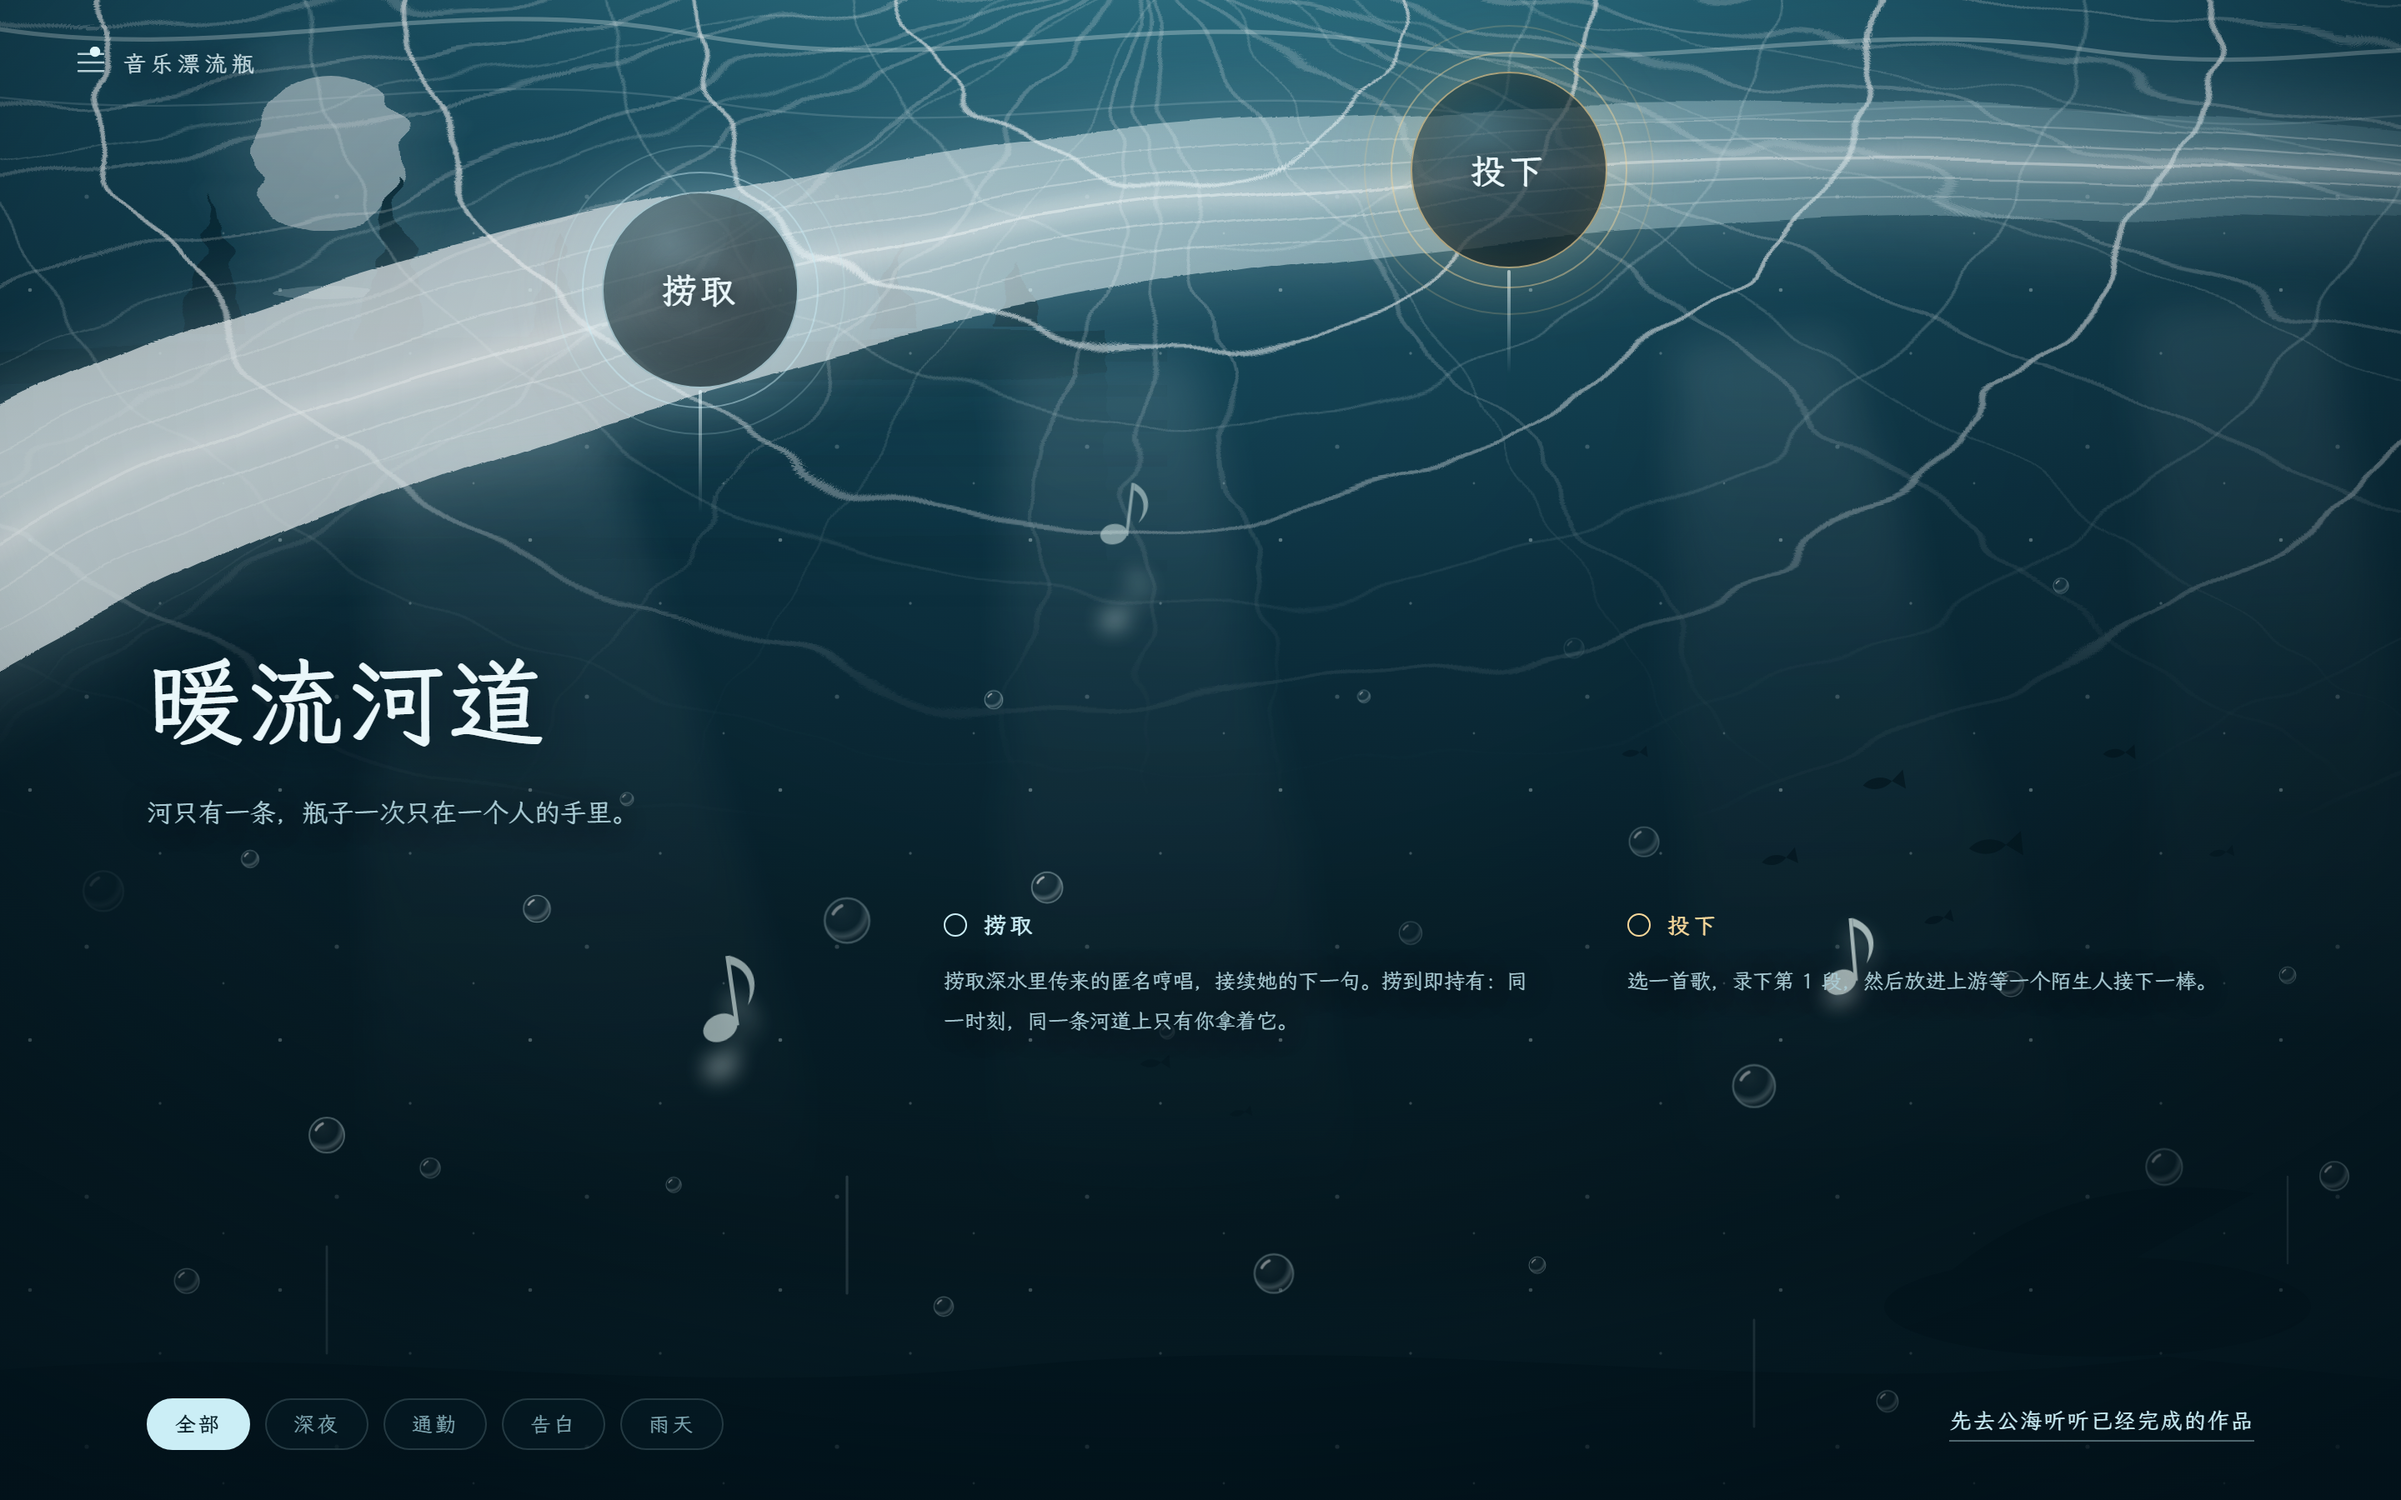
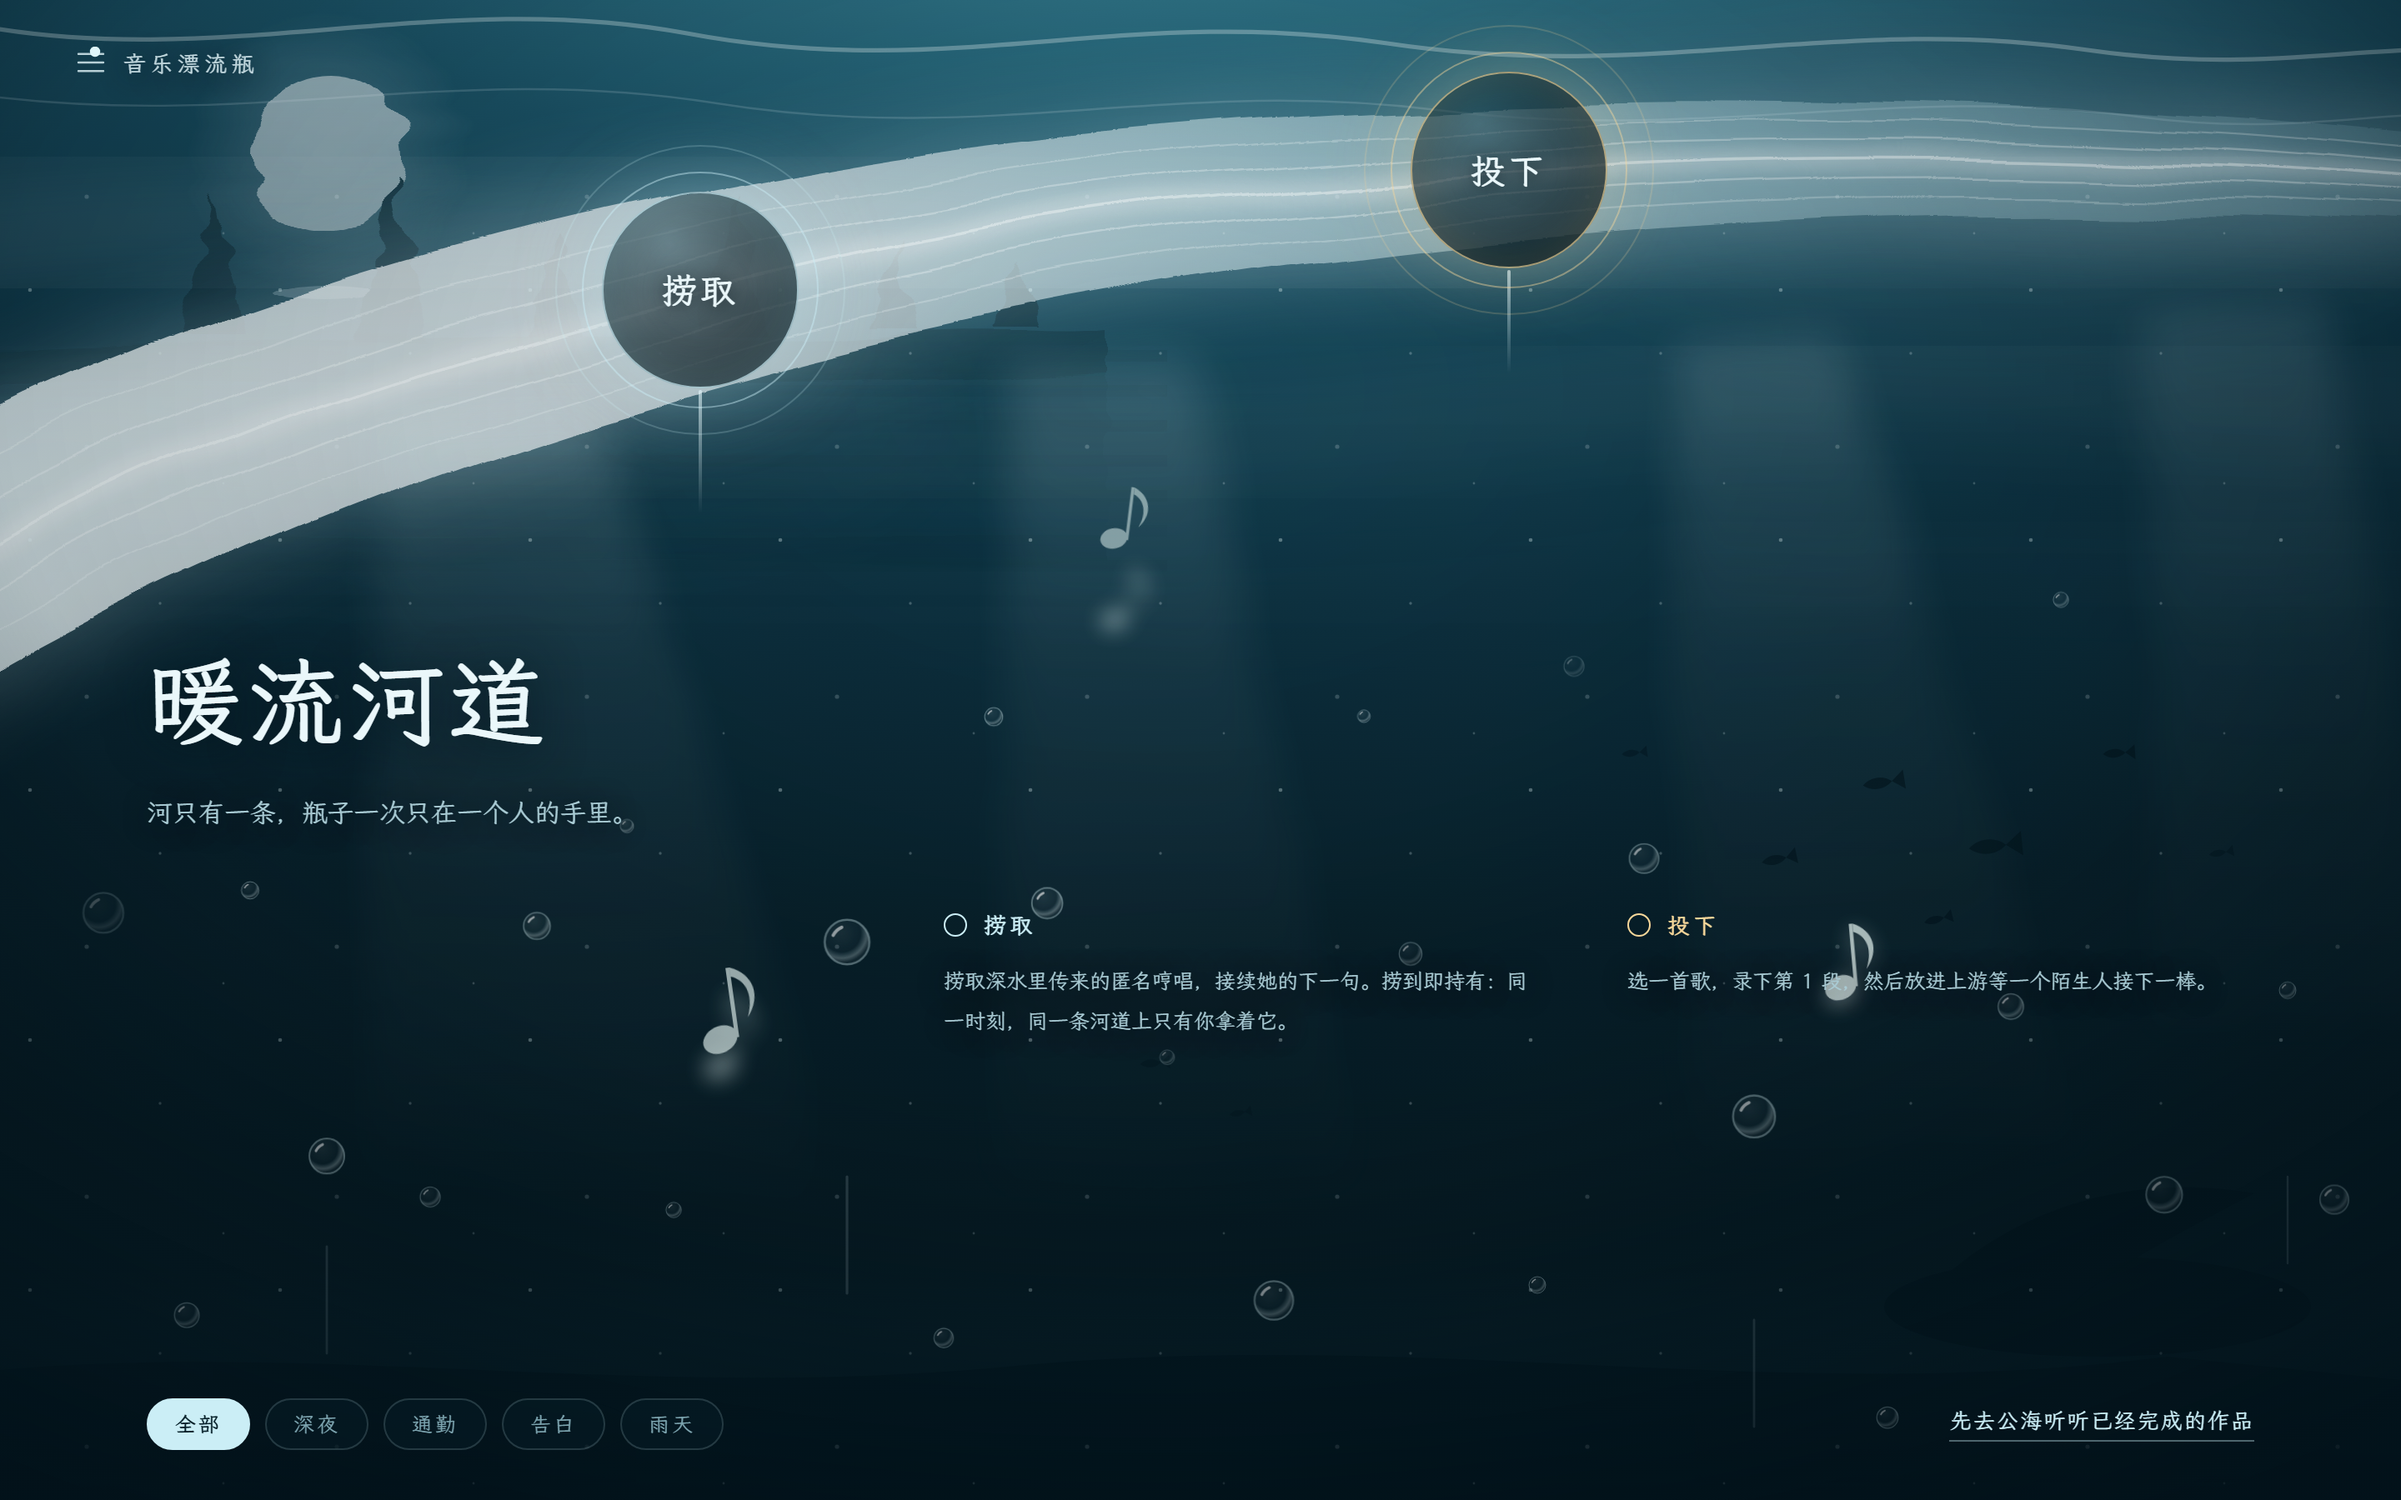
docs(design-explore): 三个候选的更新内容落盘（F4 只留文字描述 / E3 按钮错落到左侧 / g3 已拆网）
上一次提交只包含 ADR 与删除，这三份的**内容改动**（以及重渲染的 png）当时还是未暂存状态，这里补上，避免出现「文档说改了、文件其实没改」的假账。

diff --git a/docs/ui-review/design-explore/g3-underwater.html b/docs/ui-review/design-explore/g3-underwater.html
@@ -226,57 +226,17 @@
         <rect x="-60" y="206" width="760" height="200" fill="url(#pSlice)" opacity=".42" />
       </g>
 
-      <!-- ══ 头顶水面：极坐标折光网（越往下越被压扁 = 正上方在天顶） ══ -->
+      <!-- ══ 头顶水面：不是网格，而是几片被水揉过的光斑（用户："不要像蜘蛛网"） ══ -->
+      <filter id="fSoft"><feGaussianBlur stdDeviation="16" /></filter>
       <g mask="url(#mSurf)">
-        <g class="mesh-a" filter="url(#fCaust)" fill="none" stroke="#eafcfe" stroke-linecap="round">
-          <ellipse cx="700" cy="-30" rx="150" ry="138" stroke-width="2.2" opacity=".42" />
-          <ellipse cx="700" cy="-30" rx="280" ry="238" stroke-width="2.6" opacity=".46" />
-          <ellipse cx="700" cy="-30" rx="440" ry="343" stroke-width="3" opacity=".5" />
-          <ellipse cx="700" cy="-30" rx="640" ry="448" stroke-width="3.2" opacity=".5" />
-          <ellipse cx="700" cy="-30" rx="880" ry="546" stroke-width="3.4" opacity=".46" />
-          <ellipse cx="700" cy="-30" rx="1160" ry="638" stroke-width="3.4" opacity=".4" />
-          <ellipse cx="700" cy="-30" rx="1480" ry="710" stroke-width="3.2" opacity=".32" />
-          <ellipse cx="700" cy="-30" rx="1840" ry="773" stroke-width="3" opacity=".24" />
-          <ellipse cx="700" cy="-30" rx="2260" ry="814" stroke-width="2.8" opacity=".18" />
-          <g stroke-width="2.4" opacity=".34">
-            <line x1="700" y1="-30" x2="3100" y2="-30" />
-            <line x1="700" y1="-30" x2="-1700" y2="-30" />
-            <line x1="700" y1="-30" x2="3056" y2="116" />
-            <line x1="700" y1="-30" x2="-1656" y2="116" />
-            <line x1="700" y1="-30" x2="2955" y2="257" />
-            <line x1="700" y1="-30" x2="-1555" y2="257" />
-            <line x1="700" y1="-30" x2="2760" y2="389" />
-            <line x1="700" y1="-30" x2="-1360" y2="389" />
-            <line x1="700" y1="-30" x2="2485" y2="506" />
-            <line x1="700" y1="-30" x2="-1085" y2="506" />
-            <line x1="700" y1="-30" x2="2141" y2="604" />
-            <line x1="700" y1="-30" x2="-741" y2="604" />
-            <line x1="700" y1="-30" x2="1740" y2="680" />
-            <line x1="700" y1="-30" x2="-340" y2="680" />
-            <line x1="700" y1="-30" x2="1295" y2="733" />
-            <line x1="700" y1="-30" x2="105" y2="733" />
-            <line x1="700" y1="-30" x2="826" y2="762" />
-            <line x1="700" y1="-30" x2="574" y2="762" />
-            <line x1="700" y1="-30" x2="700" y2="810" />
-          </g>
-        </g>
-        <g class="mesh-b" filter="url(#fCaust2)" fill="none" stroke="#f2feff" stroke-linecap="round" opacity=".5">
-          <ellipse cx="700" cy="-30" rx="212" ry="186" stroke-width="1.4" />
-          <ellipse cx="700" cy="-30" rx="356" ry="290" stroke-width="1.6" />
-          <ellipse cx="700" cy="-30" rx="536" ry="396" stroke-width="1.8" />
-          <ellipse cx="700" cy="-30" rx="756" ry="500" stroke-width="1.8" />
-          <ellipse cx="700" cy="-30" rx="1016" ry="594" stroke-width="1.8" />
-          <ellipse cx="700" cy="-30" rx="1316" ry="676" stroke-width="1.6" />
-          <ellipse cx="700" cy="-30" rx="1656" ry="744" stroke-width="1.4" />
-          <ellipse cx="700" cy="-30" rx="2040" ry="794" stroke-width="1.2" />
-          <g stroke-width="1.3" opacity=".8">
-            <line x1="700" y1="-30" x2="2900" y2="60" /><line x1="700" y1="-30" x2="-1500" y2="60" />
-            <line x1="700" y1="-30" x2="2680" y2="330" /><line x1="700" y1="-30" x2="-1280" y2="330" />
-            <line x1="700" y1="-30" x2="2320" y2="547" /><line x1="700" y1="-30" x2="-920" y2="547" />
-            <line x1="700" y1="-30" x2="1836" y2="700" /><line x1="700" y1="-30" x2="-436" y2="700" />
-            <line x1="700" y1="-30" x2="1200" y2="792" /><line x1="700" y1="-30" x2="200" y2="792" />
-          </g>
-        </g>
+        <path d="M-100 150 C 300 96, 620 186, 940 132 C 1180 92, 1380 150, 1560 118"
+          fill="none" stroke="#eafcfe" stroke-width="52" stroke-linecap="round" opacity=".12" filter="url(#fSoft)" />
+        <path d="M-100 272 C 260 218, 560 304, 900 250 C 1160 208, 1400 266, 1560 236"
+          fill="none" stroke="#f2feff" stroke-width="38" stroke-linecap="round" opacity=".1" filter="url(#fSoft)" />
+        <path d="M-100 376 C 320 326, 640 408, 980 354 C 1220 316, 1420 366, 1560 340"
+          fill="none" stroke="#eafcfe" stroke-width="30" stroke-linecap="round" opacity=".08" filter="url(#fSoft)" />
+        <ellipse cx="1180" cy="96" rx="300" ry="120" fill="#f2feff" opacity=".05" filter="url(#fSoft)" />
+        <ellipse cx="330" cy="248" rx="240" ry="96" fill="#eafcfe" opacity=".045" filter="url(#fSoft)" />
       </g>
 
       <!-- 水面下缘的波纹剪影（头顶那层膜） -->

diff --git a/docs/ui-review/design-explore/f1-above.html b/docs/ui-review/design-explore/f1-above.html
@@ -171,15 +171,15 @@
       <div class="meter"><i class="on"></i><i></i><i></i><i></i></div>
     </div>
 
-    <div class="port draw ov" style="left:804px; top:454px; width:156px; height:156px" role="button" aria-label="捞一个漂流瓶">
-      <i class="r1"></i><i class="r2"></i><i class="r3"></i>
-      <span class="core">捞取<span>DRAW</span></span>
-      <span class="cap" style="left:-104px; top:172px"><b>捞一个漂流瓶</b>捞取深水里传来的匿名哼唱，接续她的下一句。捞到即持有。</span>
+    <div class="port draw ov" style="left:98px; top:566px; width:196px; height:196px" role="button" aria-label="捞一个漂流瓶">
+      <i class="r1" style="inset:0"></i><i class="r2" style="inset:28px"></i><i class="r3" style="inset:56px"></i>
+      <span class="core" style="width:78px;height:78px;font-size:17px">捞取<span>DRAW</span></span>
+      <span class="cap" style="left:212px; top:44px; width:270px"><b>捞一个漂流瓶</b>捞取深水里传来的匿名哼唱，接续她的下一句。捞到即持有：同一时刻，同一条河道上只有你拿着它。</span>
     </div>
-    <div class="port cast ov" style="left:1094px; top:284px; width:156px; height:156px" role="button" aria-label="投下一支漂流瓶">
-      <i class="r1"></i><i class="r2"></i><i class="r3"></i>
-      <span class="core">投下<span>CAST</span></span>
-      <span class="cap" style="left:-300px; top:20px; text-align:right"><b>投下一支漂流瓶</b>选一首歌，录下第 1 段，放进上游等一个陌生人接下一棒。</span>
+    <div class="port cast ov" style="left:246px; top:356px; width:148px; height:148px" role="button" aria-label="投下一支漂流瓶">
+      <i class="r1" style="inset:0"></i><i class="r2" style="inset:20px"></i><i class="r3" style="inset:40px"></i>
+      <span class="core" style="width:62px;height:62px;font-size:15px">投下<span>CAST</span></span>
+      <span class="cap" style="left:164px; top:24px; width:268px"><b>投下一支漂流瓶</b>选一首歌，录下第 1 段（时长以该段为准），然后放进上游等一个陌生人接下一棒。</span>
     </div>
 
     <footer>

diff --git a/docs/ui-review/design-explore/f4-groove.html b/docs/ui-review/design-explore/f4-groove.html
@@ -110,12 +110,6 @@
       <p class="sub">一条沟槽就是一条河。瓶子顺槽往下，谁捞到，谁就接下一句。</p>
     </div>
 
-    <div class="note ov" style="left:96px; top:392px; width:260px; transform:rotate(-1.8deg)">
-      <b>① 捞取</b><br />顺着这条沟槽，把别人留下的半句接过来。
-    </div>
-    <div class="note ov" style="left:96px; top:536px; width:260px; transform:rotate(1.4deg)">
-      <b>② 投下</b><br />你录的那一段被刻进槽里，继续往下转。
-    </div>
 
     <div class="ov" style="left:96px; top:686px; width:300px">
       <div class="rpm">33⅓</div>
